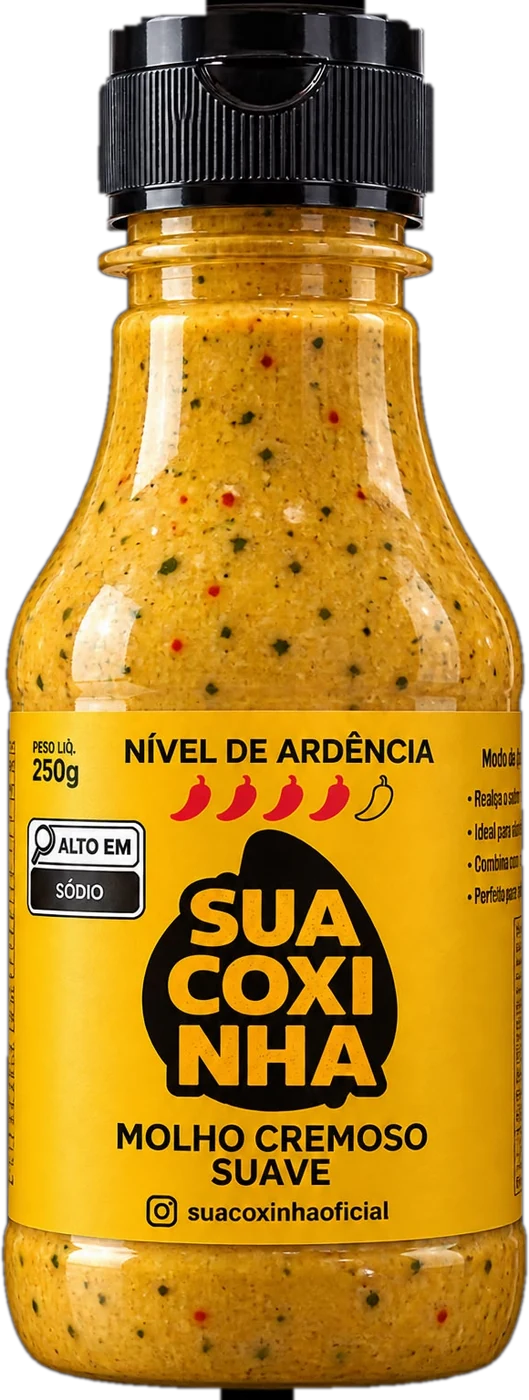
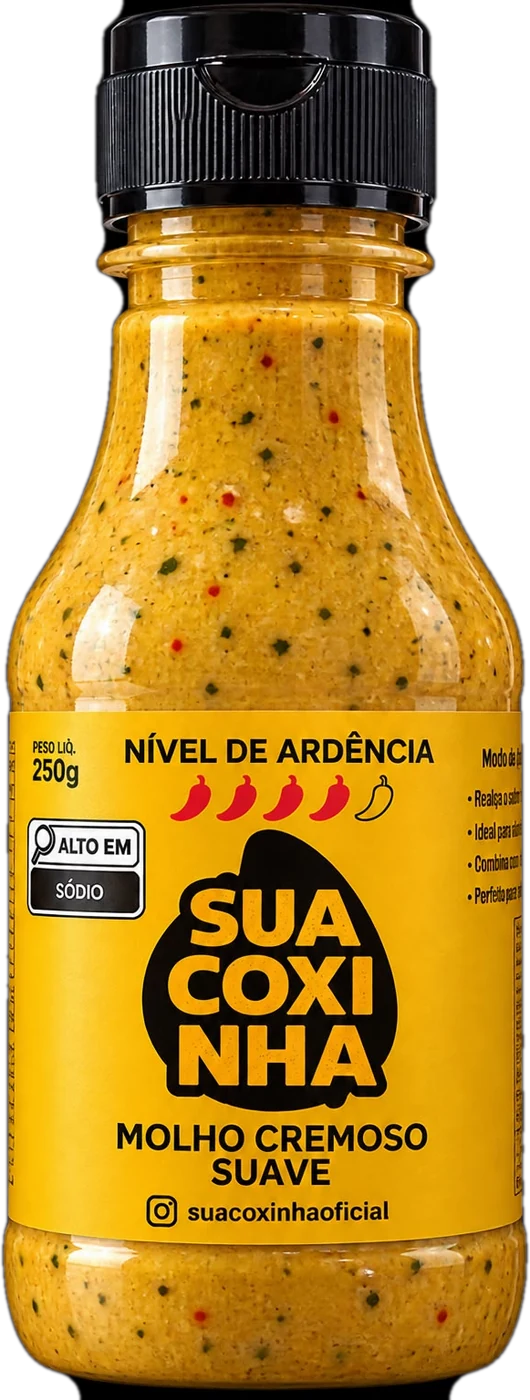
Corrige o recorte das garrafas de molho
A silhueta linha a linha comia pedaços da tampa escura. Agora a máscara
sai de um limiar baixo com fechamento morfológico, e o preenchimento de
buracos usa uma moldura para não transformar fundo em garrafa.

diff --git a/scripts/recorta-molhos.py b/scripts/recorta-molhos.py
@@ -1,8 +1,8 @@
-"""Recorta as garrafas dos molhos (fundo preto) em PNG/WebP com transparencia.
+"""Recorta as garrafas dos molhos (fotos com fundo preto) em WebP com transparência.
 
-A silhueta e montada linha a linha: em cada linha da foto pegamos o primeiro e o
-ultimo pixel claro e preenchemos o meio. Isso resolve a tampa preta, que se
-confunde com o fundo em qualquer limiar de brilho.
+O fundo das fotos é preto puro, então um limiar baixo já separa a garrafa. O
+fechamento morfológico costura as partes escuras da tampa, que quase se
+confundem com o fundo, e o preenchimento de buracos recupera o miolo do rótulo.
 """
 import cv2
 import numpy as np
@@ -15,72 +15,38 @@ ORIGENS = {
     'alho': 'molho_alho.jpeg',
 }
 
+LIMIAR = 10
+FECHAR = 61
 
-def silhueta(arquivo):
+
+def recorta(arquivo):
     im = cv2.imread(arquivo)
-    g = cv2.cvtColor(im, cv2.COLOR_BGR2GRAY)
-    h, w = g.shape
-    claro = cv2.morphologyEx((g > 22).astype(np.uint8), cv2.MORPH_OPEN, np.ones((5, 5), np.uint8))
+    cinza = cv2.cvtColor(im, cv2.COLOR_BGR2GRAY)
 
-    esq = np.full(h, np.nan)
-    dir_ = np.full(h, np.nan)
-    for y in range(h):
-        xs = np.flatnonzero(claro[y])
-        if len(xs) >= 40 and xs[-1] - xs[0] > 60:
-            esq[y], dir_[y] = xs[0], xs[-1]
+    m = (cinza > LIMIAR).astype(np.uint8) * 255
+    m = cv2.morphologyEx(m, cv2.MORPH_CLOSE, cv2.getStructuringElement(cv2.MORPH_ELLIPSE, (FECHAR, FECHAR)))
+    m = cv2.morphologyEx(m, cv2.MORPH_OPEN, cv2.getStructuringElement(cv2.MORPH_ELLIPSE, (9, 9)))
 
-    # Fica só com o bloco de linhas da garrafa. Falhas curtas (a tampa escura,
-    # que quase não tem pixel claro) são costuradas antes de escolher o bloco.
-    val = (~np.isnan(esq)).astype(np.uint8)
-    val = cv2.morphologyEx(val.reshape(-1, 1), cv2.MORPH_CLOSE, np.ones((81, 1), np.uint8)).ravel().astype(bool)
-    melhor, atual = (0, 0), None
-    for y in range(h):
-        if val[y] and atual is None:
-            atual = y
-        elif not val[y] and atual is not None:
-            if y - atual > melhor[1] - melhor[0]:
-                melhor = (atual, y)
-            atual = None
-    if atual is not None and h - atual > melhor[1] - melhor[0]:
-        melhor = (atual, h)
-    y0, y1 = melhor
+    n, lab, stats, _ = cv2.connectedComponentsWithStats(m, 8)
+    if n > 1:
+        m = np.where(lab == 1 + np.argmax(stats[1:, cv2.CC_STAT_AREA]), 255, 0).astype(np.uint8)
 
-    # Linhas sem borda detectada (tampa) herdam a borda das vizinhas
-    conhecidas = np.flatnonzero(~np.isnan(esq))
-    if len(conhecidas):
-        esq = np.interp(np.arange(h), conhecidas, esq[conhecidas])
-        dir_ = np.interp(np.arange(h), conhecidas, dir_[conhecidas])
-    esq[:y0] = np.nan
-    esq[y1:] = np.nan
-    dir_[:y0] = np.nan
-    dir_[y1:] = np.nan
-
-    def suavizar(v):
-        s = v.copy()
-        for y in range(y0, y1):
-            janela = v[max(y0, y - 11) : min(y1, y + 12)]
-            janela = janela[~np.isnan(janela)]
-            if len(janela):
-                s[y] = np.median(janela)
-        return s
-
-    esq, dir_ = suavizar(esq), suavizar(dir_)
-
-    m = np.zeros((h, w), np.uint8)
-    for y in range(y0, y1):
-        if not np.isnan(esq[y]) and dir_[y] > esq[y]:
-            m[y, int(esq[y]) : int(dir_[y]) + 1] = 255
-    m = cv2.morphologyEx(m, cv2.MORPH_CLOSE, np.ones((11, 11), np.uint8))
+    # Buracos internos (o logo preto do rótulo) voltam a ser garrafa. A moldura de
+    # 1px garante que todo o fundo se conecte, mesmo o que não toca o canto.
+    fora = cv2.copyMakeBorder(m, 1, 1, 1, 1, cv2.BORDER_CONSTANT, value=0)
+    cv2.floodFill(fora, np.zeros((fora.shape[0] + 2, fora.shape[1] + 2), np.uint8), (0, 0), 255)
+    m = m | cv2.bitwise_not(fora)[1:-1, 1:-1]
     m = cv2.GaussianBlur(m, (7, 7), 0)
 
     rgba = cv2.cvtColor(im, cv2.COLOR_BGR2BGRA)
     rgba[:, :, 3] = m
-    out = Image.fromarray(cv2.cvtColor(rgba, cv2.COLOR_BGRA2RGBA))
-    return out.crop(out.getbbox())
+    garrafa = Image.fromarray(cv2.cvtColor(rgba, cv2.COLOR_BGRA2RGBA))
+    return garrafa.crop(garrafa.getbbox())
 
 
-for nome, arquivo in ORIGENS.items():
-    garrafa = silhueta(arquivo)
-    garrafa.thumbnail((620, 1400), Image.LANCZOS)
-    garrafa.save(f'public/assets/molhos/{nome}.webp', quality=88, method=6)
-    print(nome, garrafa.size)
+if __name__ == '__main__':
+    for nome, arquivo in ORIGENS.items():
+        garrafa = recorta(arquivo)
+        garrafa.thumbnail((620, 1400), Image.LANCZOS)
+        garrafa.save(f'public/assets/molhos/{nome}.webp', quality=88, method=6)
+        print(nome, garrafa.size)
